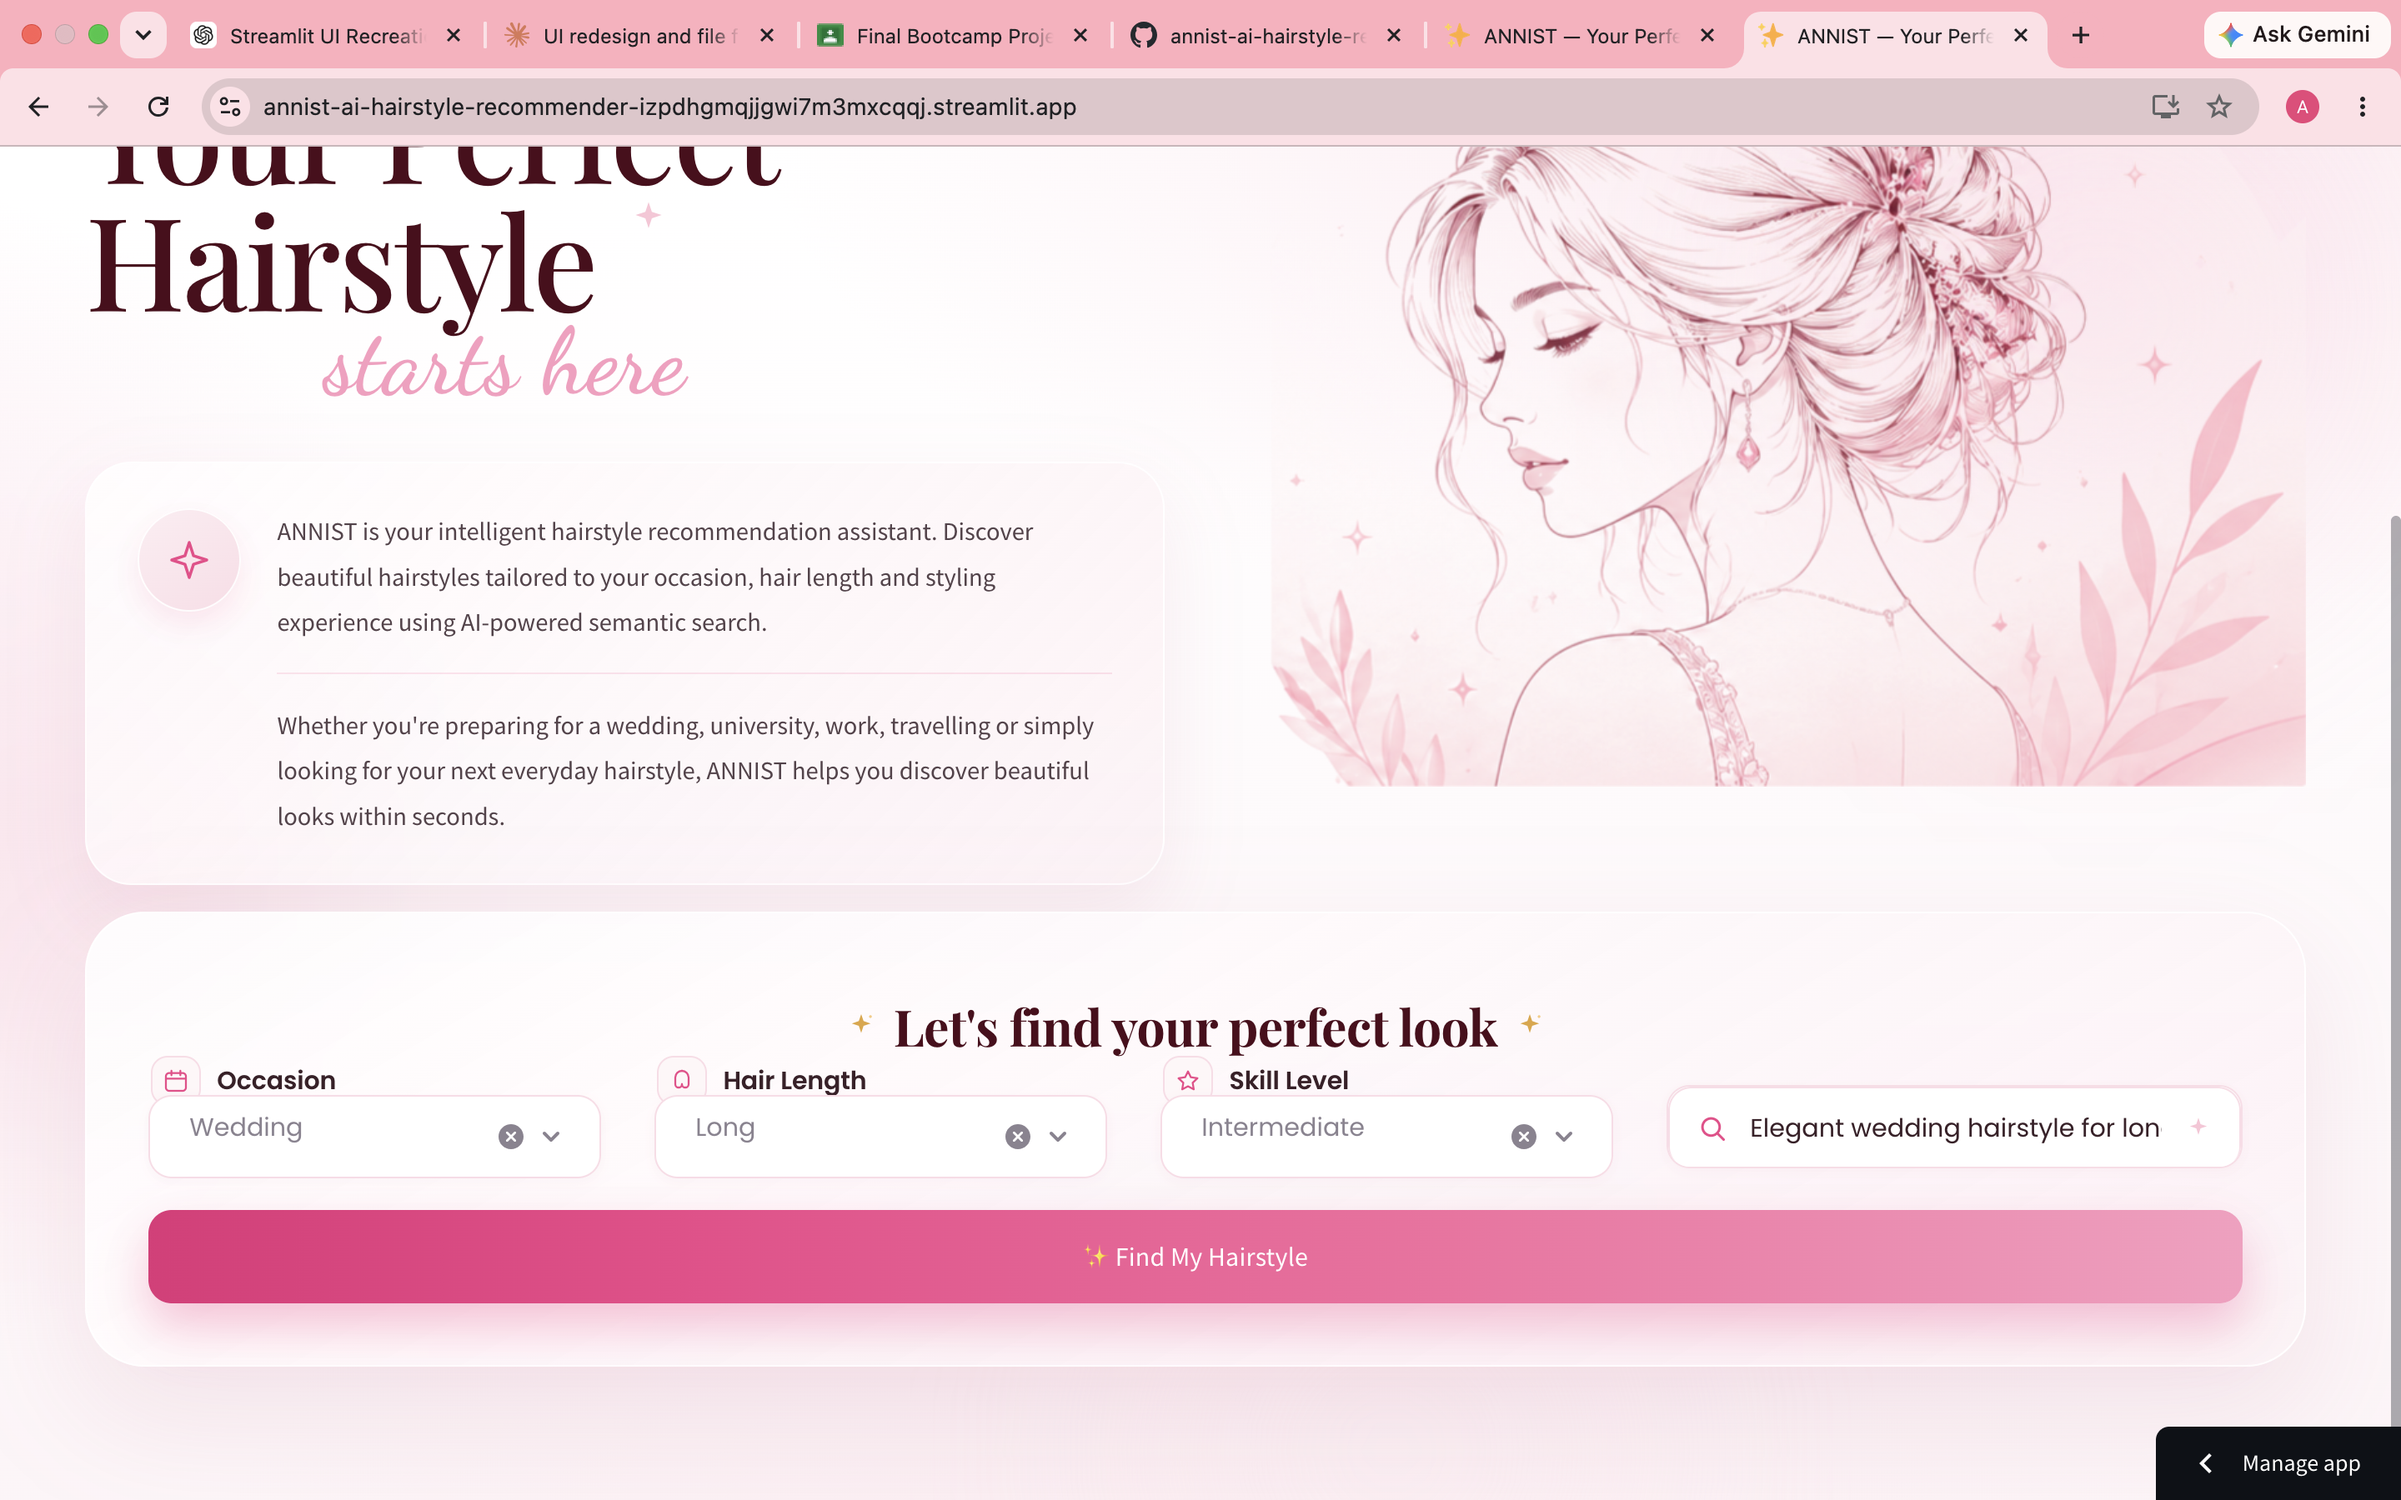
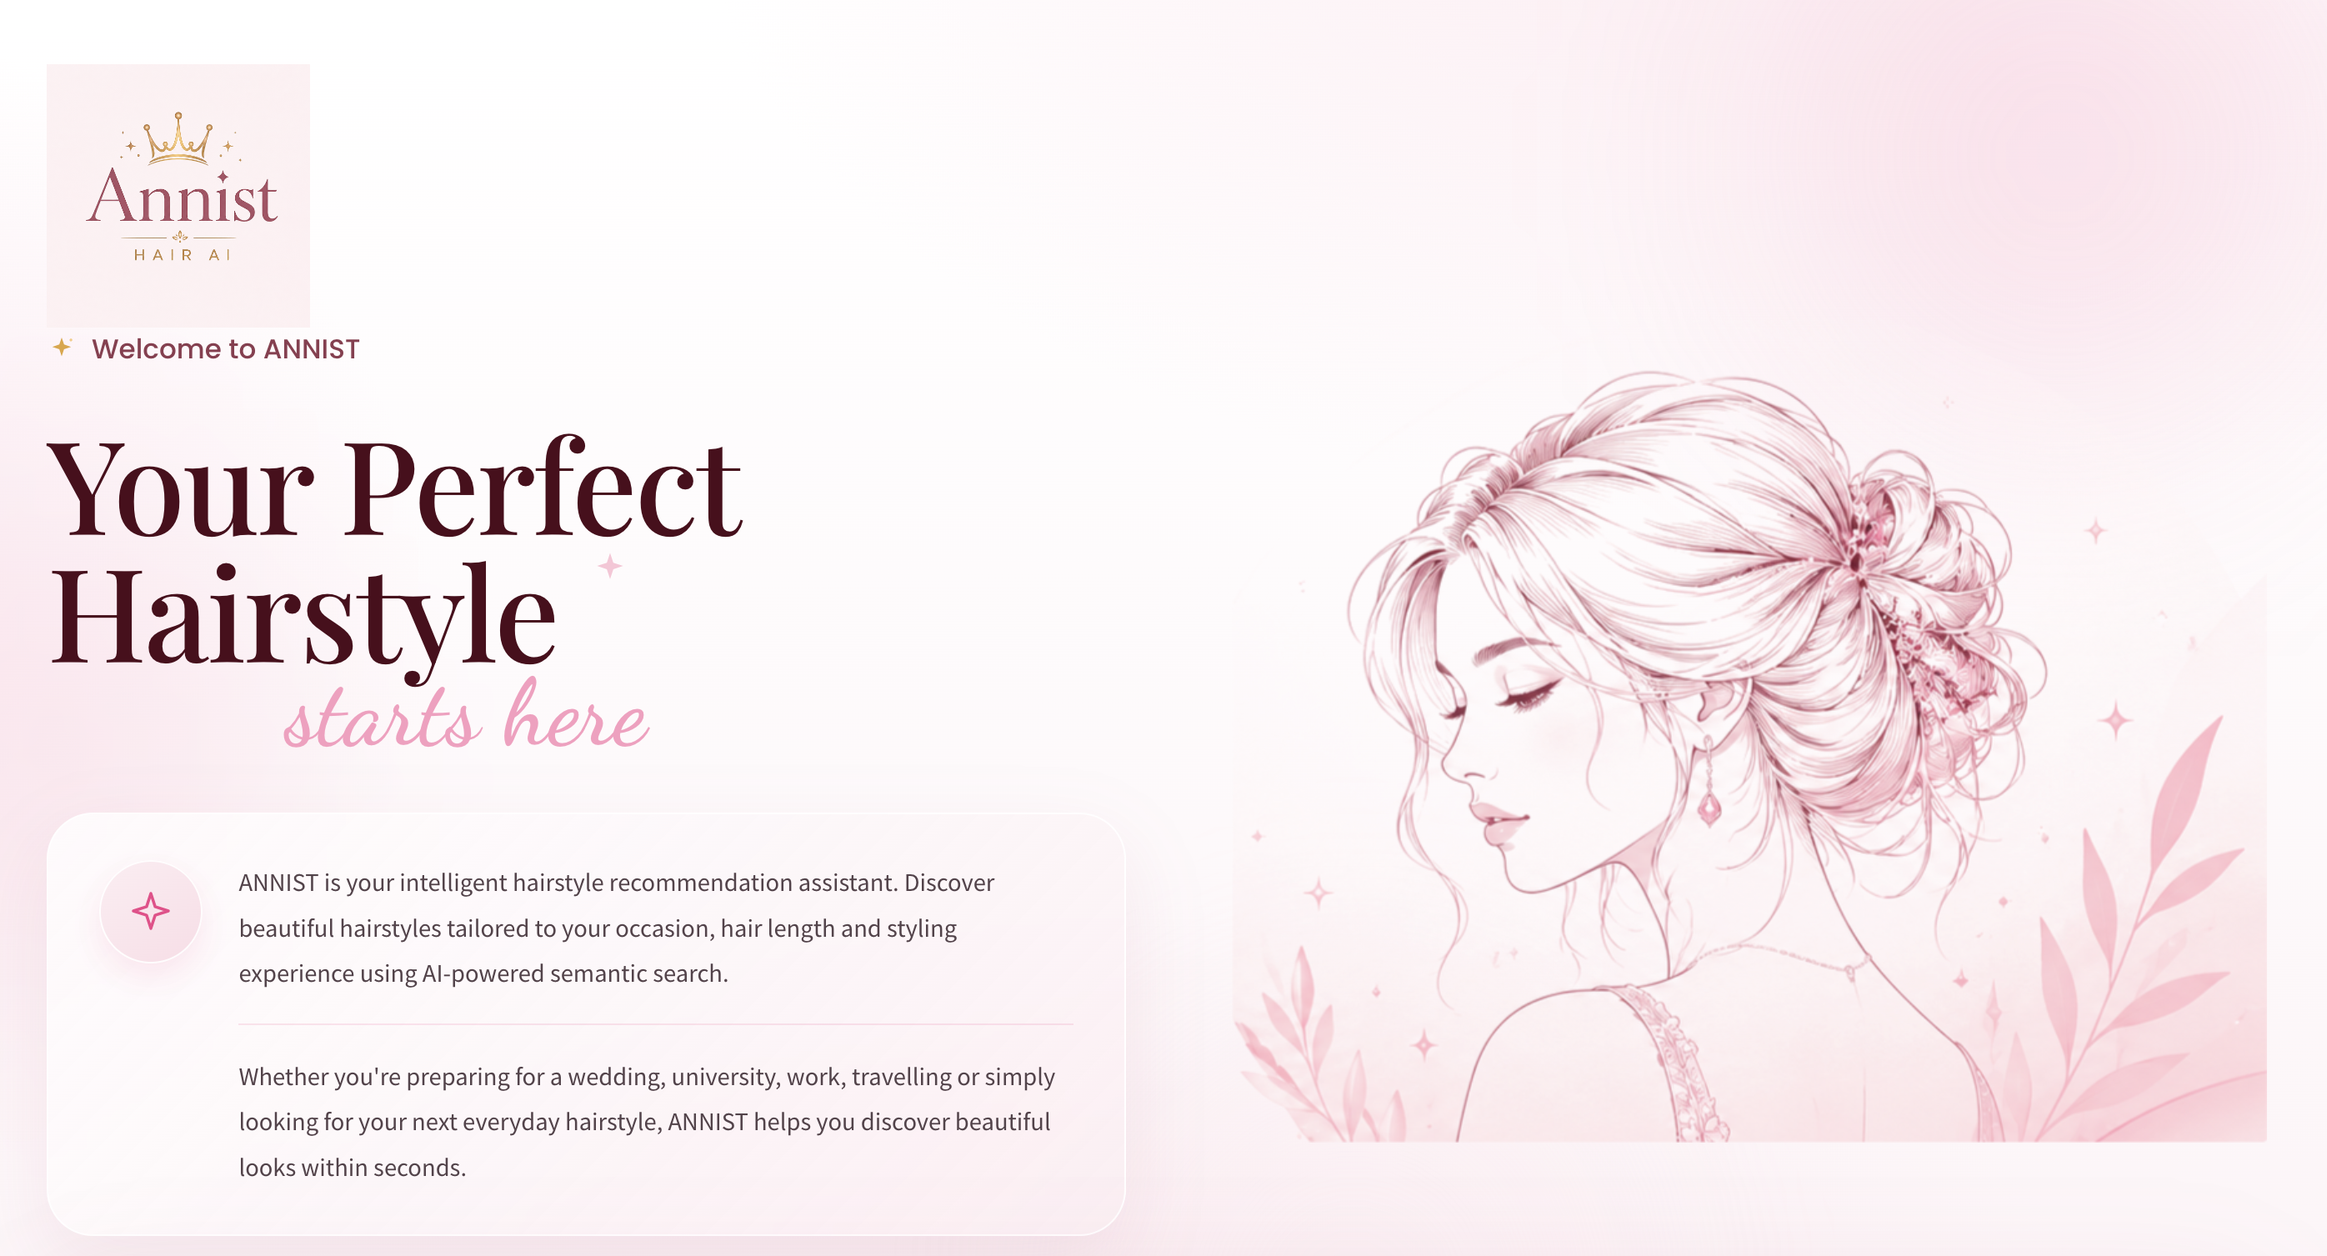
Update project screenshots

Changed region(s): [[0.0, 0.0, 1.0, 1.0], [0.0, 0.3431, 0.4674, 0.5926], [0.6544, 0.6549, 0.7167, 0.7485]]

diff --git a/README.md b/README.md
@@ -11,23 +11,44 @@ Instead of browsing hundreds of hairstyle images manually, users simply describe
 https://annist-ai-hairstyle-recommender-izpdhgmqjjgwi7m3mxcqqj.streamlit.app/
 
 ---
-## 📸 Screenshots
+## 📸 Application Screenshots
 
-### Home Page
+### 🏠 Home Page
 
-![Home Page](screenshots/home.png)
+The ANNIST landing page provides a clean and modern interface for exploring AI-powered hairstyle recommendations.
 
----
-
-### AI Search Results
-
-![Search Results](screenshots/results.png)
+![ANNIST Home Page](screenshots/home.png)
 
 ---
 
-### Recommendation Cards
+### 🔍 Search Interface
 
-![Cards](screenshots/cards.png)
+Users can describe their desired hairstyle and refine recommendations using occasion, hair length, and skill-level filters.
+
+![ANNIST Search Interface](screenshots/search.png)
+
+---
+
+### 🤖 AI Recommendation Results
+
+ANNIST uses semantic search to recommend relevant hairstyles based on the user's preferences and displays matching hairstyle results.
+
+![ANNIST Recommendation Results](screenshots/result.png)
+
+### 🔍 Search Interface
+
+Users can describe the hairstyle they are looking for and refine their search using occasion, hair length, and difficulty filters.
+
+![Search interface with a pink-themed ANNIST dashboard showing a text query input field, occasion options, hair length and difficulty filters, and a vertical list of hairstyle suggestion cards for discovering hairstyles](screenshots/search.png)
+
+---
+
+### 🤖 AI Recommendation Results
+
+ANNIST uses semantic search to recommend the most relevant hairstyles based on the user's query, displaying AI match scores and hairstyle details.
+
+![Recommendation results page showing hairstyle cards with photo thumbnails, similarity score badges, hairstyle descriptions, and a pink editorial interface conveying an elegant polished mood](screenshots/result.png)
+
 
 ## 📂 GitHub Repository
 
